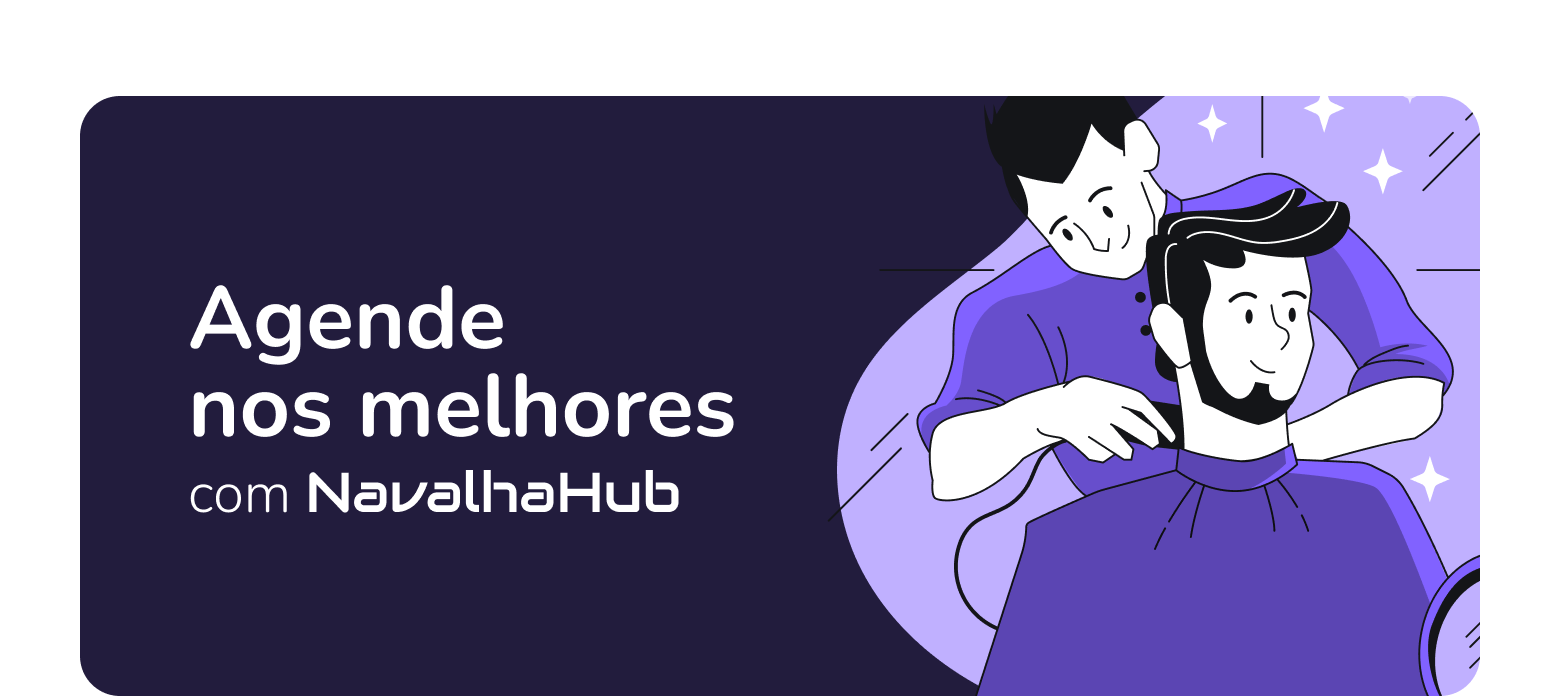
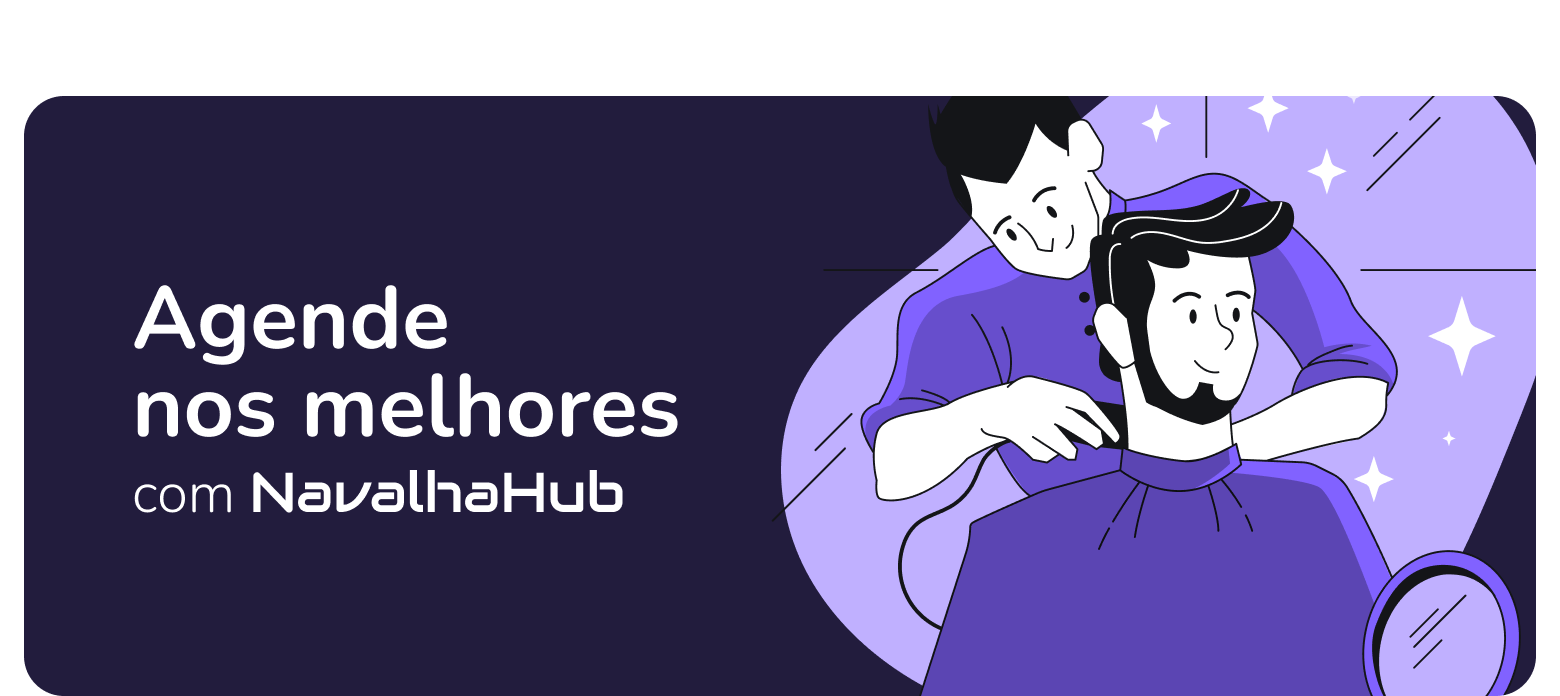
feat: add BarbershopItem component

Changed region(s): [[0.0, 0.1207, 0.9846, 1.0], [0.0923, 0.6638, 0.4615, 0.7543]]

diff --git a/app/page.tsx b/app/page.tsx
@@ -6,8 +6,13 @@ import Image from "next/image"
 import { Card, CardContent } from "./_components/ui/card"
 import { Avatar, AvatarImage } from "./_components/ui/avatar"
 import { Badge } from "./_components/ui/badge"
+import { db } from "./_lib/prisma"
+import BarbershopItem from "./_components/barbershop-item"
 
-const Home = () => {
+const Home = async () => {
+  const barbershops = await db.barbershop.findMany({})
+  console.log({ barbershops })
+
   return (
     <div>
       {/* header */}
@@ -24,7 +29,7 @@ const Home = () => {
             <SearchIcon />
           </Button>
         </div>
-        <div className="relative mt-6 h-[150px] w-full rounded-xl">
+        <div className="relative mt-2 h-[165px] w-full rounded-xl">
           {/* Banner */}
           <Image
             src="/banner-01.png"
@@ -34,7 +39,10 @@ const Home = () => {
           />
         </div>
         {/* Agendamento */}
-        <Card className="mt-6">
+        <h2 className="mb-3 mt-6 text-xs font-bold uppercase text-gray-400">
+          Agendamentos
+        </h2>
+        <Card>
           <CardContent className="flex justify-between p-0">
             {/* Esquerda */}
             <div className="flex flex-col gap-2 py-5 pl-5">
@@ -42,7 +50,7 @@ const Home = () => {
               <h3 className="font-semibold">Corte de Cabelo</h3>
               <div className="flex items-center">
                 <Avatar className="h6 w-6">
-                  <AvatarImage src="https://github.com/shadcn.png" />
+                  <AvatarImage src="https://utfs.io/f/e995db6d-df96-4658-99f5-11132fd931e1-17j.png" />
                 </Avatar>
                 <p className="text-sm">Corte de Cabelo</p>
               </div>
@@ -56,6 +64,14 @@ const Home = () => {
             </div>
           </CardContent>
         </Card>
+        <h2 className="mb-3 mt-6 text-xs font-bold uppercase text-gray-400">
+          Recomendados
+        </h2>
+        <div className="flex gap-4 overflow-auto [&::-webkit-scrollbar]:hidden">
+          {barbershops.map((barbershop) => (
+            <BarbershopItem key={barbershop.id} barbershop={barbershop} />
+          ))}
+        </div>
       </div>
     </div>
   )

diff --git a/app/_components/barbershop-item.tsx b/app/_components/barbershop-item.tsx
@@ -1,0 +1,45 @@
+import { Barbershop } from "@prisma/client"
+import { Card, CardContent } from "./ui/card"
+import Image from "next/image"
+import { Button } from "./ui/button"
+import { Badge } from "./ui/badge"
+import { StarIcon } from "lucide-react"
+
+interface BarbershopItemProps {
+  barbershop: Barbershop
+}
+
+const BarbershopItem = ({ barbershop }: BarbershopItemProps) => {
+  return (
+    <Card className="min-w-[169px] rounded-2xl">
+      <CardContent className="p-0 px-1 pt-1">
+        {/* Imagem */}
+        <div className="relative h-[159px] rounded-xl p-1">
+          <Image
+            alt={barbershop.name}
+            fill
+            className="rounded-2xl object-cover"
+            src={barbershop.imageUrl}
+          />
+          <Badge
+            className="absolute left-1 top-2 z-50 space-x-1"
+            variant="secondary"
+          >
+            <StarIcon size={12} className="fill-primary text-primary" />
+            <p className="text-xs font-semibold">4.9</p>
+          </Badge>
+        </div>
+        {/* Texto */}
+        <div className="px-1 py-3">
+          <h3 className="overflow-hidden truncate">{barbershop.name}</h3>
+          <p className="truncate text-sm text-gray-400">{barbershop.address}</p>
+          <Button variant="secondary" className="mt-3 w-full">
+            Reservar
+          </Button>
+        </div>
+      </CardContent>
+    </Card>
+  )
+}
+
+export default BarbershopItem

diff --git a/app/_lib/prisma.ts b/app/_lib/prisma.ts
@@ -1,0 +1,18 @@
+import { PrismaClient } from "@prisma/client"
+
+declare global {
+  // eslint-disable-next-line no-var
+  var cachedPrisma: PrismaClient
+}
+
+let prisma: PrismaClient
+if (process.env.NODE_ENV === "production") {
+  prisma = new PrismaClient()
+} else {
+  if (!global.cachedPrisma) {
+    global.cachedPrisma = new PrismaClient()
+  }
+  prisma = global.cachedPrisma
+}
+
+export const db = prisma

diff --git a/app/globals.css b/app/globals.css
@@ -40,7 +40,7 @@
   * {
     @apply border-border antialiased;
   }
-    body {
+  body {
     @apply h-full bg-background text-foreground;
   }
 }
